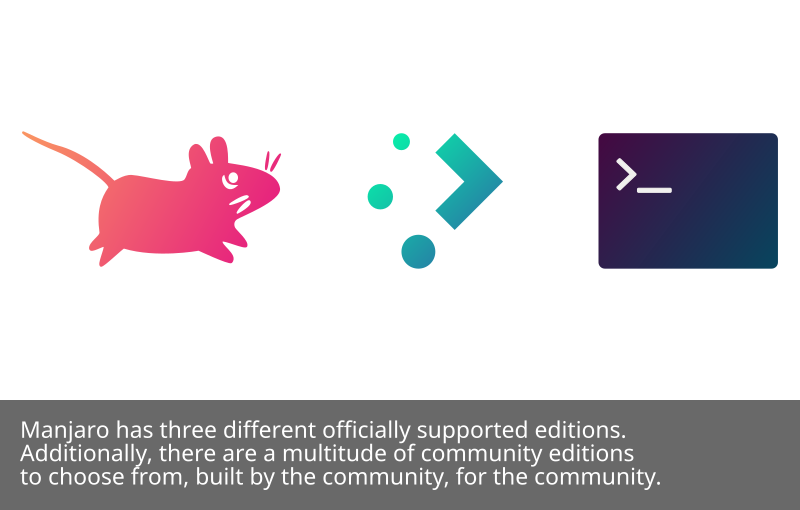
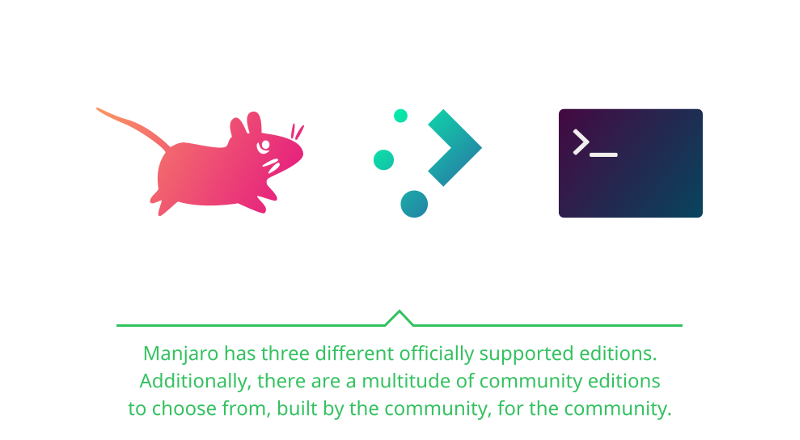
[branding] update slideshow

diff --git a/src/branding/manjaro/show.qml b/src/branding/manjaro/show.qml
@@ -17,7 +17,7 @@
  */
 
 /*
- * Slides images dimensions are 800x510px.
+ * Slides images dimensions are 800x440px.
  */
 
 import QtQuick 2.0;
@@ -39,7 +39,7 @@ Presentation
         Image {
             id: background1
             source: "slide1.png"
-            width: 800; height: 510
+            width: 800; height: 440
             fillMode: Image.PreserveAspectFit
             anchors.centerIn: parent
         }
@@ -58,7 +58,7 @@ Presentation
         Image {
             id: background2
             source: "slide2.png"
-            width: 800; height: 510
+            width: 800; height: 440
             fillMode: Image.PreserveAspectFit
             anchors.centerIn: parent
         }
@@ -77,7 +77,7 @@ Presentation
         Image {
             id: background3
             source: "slide3.png"
-            width: 800; height: 510
+            width: 800; height: 440
             fillMode: Image.PreserveAspectFit
             anchors.centerIn: parent
         }
@@ -96,7 +96,7 @@ Presentation
         Image {
             id: background4
             source: "slide4.png"
-            width: 800; height: 510
+            width: 800; height: 440
             fillMode: Image.PreserveAspectFit
             anchors.centerIn: parent
         }
@@ -115,7 +115,7 @@ Presentation
         Image {
             id: background5
             source: "slide5.png"
-            width: 800; height: 510
+            width: 800; height: 440
             fillMode: Image.PreserveAspectFit
             anchors.centerIn: parent
         }
